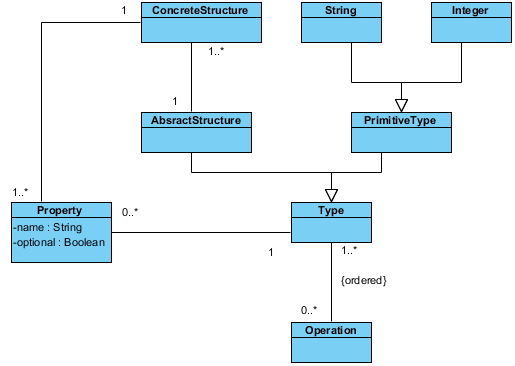
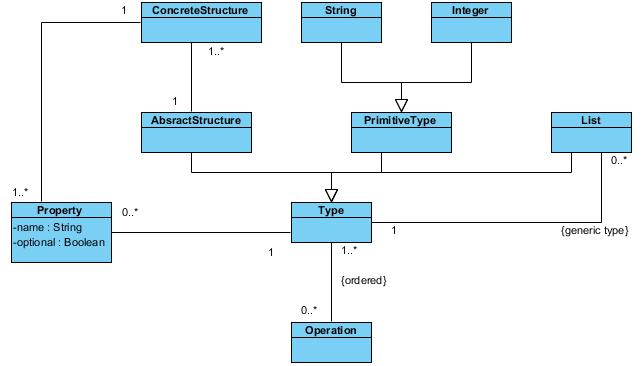
d

diff --git a/4-implementation/parser.tex b/4-implementation/parser.tex
@@ -5,7 +5,20 @@ operations, or throw an error if the syntax is incorrect. We extended the
 \class{StandardTokenParsers} class available in the standard scala api, this
 allowed to make a clean, extendable parser written in pure functional code.
 
-We mentioned the 
+\par
+We mentioned the semantics model in \ref{subs:semantic}. The parser was very
+much designed on this model. We did not implement a completely general approach
+however, in principle we could have programmed an approach that could go
+as far as read our type definitions by reflection and generate the right parsing
+at runtime. This approach might be more automised but would have too many
+negative effects (harder to implement, less readable, less adjustable, ..).
+
+\par
+Instead we reencoded the definitions of all our types and operations in the
+parser, note that while this is redundant in a way, it is still strictly typed
+so changes in type are reflected. our evaluation is based on the semantics
+model, we basically check if an operation is well typed based on this model.
+
 
 \subsubsection{Tokens} 
 
@@ -101,21 +114,27 @@ problems have to be tackled here. Let us look at the example of parsing city
 data. For this example sn{\{name:Brussels, short:BRU\}} and \sn{\{short:BRU,
 name:Brussels\}} are both valid descriptions of city data. The order in which
 the attributes appear in the definition do not matter. Also the user does not
-have to explicitly mention what kind data he is providing. That means that we
-need to check if the data he provided matches any of the possible formats for
-this operation. Since data types can be nested we need to check all
-possibilities and backtrack when a mismatch is spotted.
+have to explicitly mention what kind of data he is providing, we have a
+structural typesystem so we can infer this.
 
 \par
-Luckily the implementation for backtracking is already present in the parser we
-extended. We have to use the right operators however to trigger this. Whenever
-we use the \sn{\textasciicircum?} operator it will behave the same as a the
-\sn{\textasciicircum\textasciicircum} operator except that when the result cannot
-match we will backtrack instead of fail parsing.
+Whenever we match an operator we check that for each of the expected arguments
+the user provides a type in the right form. Without going into further details
+here (the implementation is quite straightforward to review) we added the
+following features:
 
-\par
-We implemented a general way of dealing with the order of attributes. Whenever
-we start parsing any kind of data object we pull out all of its attributes and
-place them in a map. This map can thereafter be consulted to see if all required
-attributes were provided, regardless of the order they were originally provided
-in.
+\begin{enumerate}
+  \item When parsing a type we loop over all of its properties. Whenever a
+  property is not recognized (not a valid property for this type) we backtrack.
+  \item While looping over all the properties we place all of them in a map,
+  this map is afterwards used to check if all the non-optional fields were
+  provided. We use a map so the order in which the properties were defined has
+  no influence.
+  \item Types can be arbitrary nested, luckily the \class{StanderdTokensParsers}
+  provides for all the necessary backtracking tools to handle this, not much
+  extra syntax is required to trigger this.
+  \item Recall from \ref{sec:operations} that our language contains joins, this
+  means we must try and match with all of these kinds before backtracking.
+  \item A straightforward algorithm for parsing lists was required, in which we
+  simply build a list piece by piece trying to match as many types as possible.
+\end{enumerate}

diff --git a/3-design_description/main.tex b/3-design_description/main.tex
@@ -380,9 +380,10 @@ constraints specified in the domain of Section \ref{sec:domain} are kept.
 
 
 \subsection{The semantic model}
+\label{subs:semantic}
 
 \begin{figure}
-\includegraphics[width=\textwidth]{img/semanticModel.jpg}
+\includegraphics[width=\textwidth]{img/semanticModel.png}
 \caption{High level semantic model.}
 \label{fig:semantic-model}
 \end{figure}
@@ -400,12 +401,12 @@ will act upon this model, which is a nice way of decoupling these 2
 functionalities.
 
 Concretely all the operations and structures in this semantic model map 1 to 1
-with scala case classes. The parser will parse a string into the proper
+with scala classes. The parser will parse a string into the proper
 \class{Operation}-case class. This piece of data can be passed to the handler to
 actually perform the operation.
 
-But we are running ahead, lets first examine these operations, structures and
-primitive types in more detail.
+But we are running ahead, lets first examine these operations, structures, lists
+and primitive types in more detail.
 
 
 \subsection{Describing and creating structures}
@@ -474,6 +475,8 @@ instance of \ty{A}.
   \ins{b: "bottles of beer", a: 10}\\
 \end{quote}
 
+In the semantic model these are the \class{ConcreteStructure}s. They each all
+have atleast one \class{Property} which is also visible in the model.
 
 \paragraph{Types with optional properties}
 In the documentation,
@@ -494,6 +497,9 @@ instance of \ty{B}.
   \ins{a: 10, b: 5 c: "bottles of beer"}\\
   \ins{a: 10, b: 5}
 \end{quote}
+
+These optional properties correspond to the optional boolean field in the
+semantic model.
 
 \paragraph{Types of nested structures}
 In the documentation,
@@ -527,6 +533,9 @@ instance of \ty{D}.
   \ins{a: 10, b: tomatoes}\\
   \ins{a: 10, b: 5}
 \end{quote}
+
+Note that these union types are exactly the \class{Abstract Structure} that we
+defined in the semantic model.
 
 
 \paragraph{Lists}

diff --git a/3.5-operations/operations.tex b/3.5-operations/operations.tex
@@ -20,9 +20,9 @@ semantic-model. Consider for example the following operation:
   \label{op:add_city}
 \end{operation}
 
-This consists of a few keywords (ADD and CITY) (in the case of union types) and
-finally a certain data that has to be provided. Every operation simply maps to
-an \class{Operation} from the semantic model by removing all the keywords and
+This consists of a few keywords (ADD and CITY) and
+finally a certain type of data that has to be provided. Every operation simply
+maps to an \class{Operation} from the semantic model by removing all the keywords and
 considering all the types as \class{Abstract Structure}s or \class{Concrete Structure}s.
 
 Let us now focus on the one exception to this general rule, consider the
